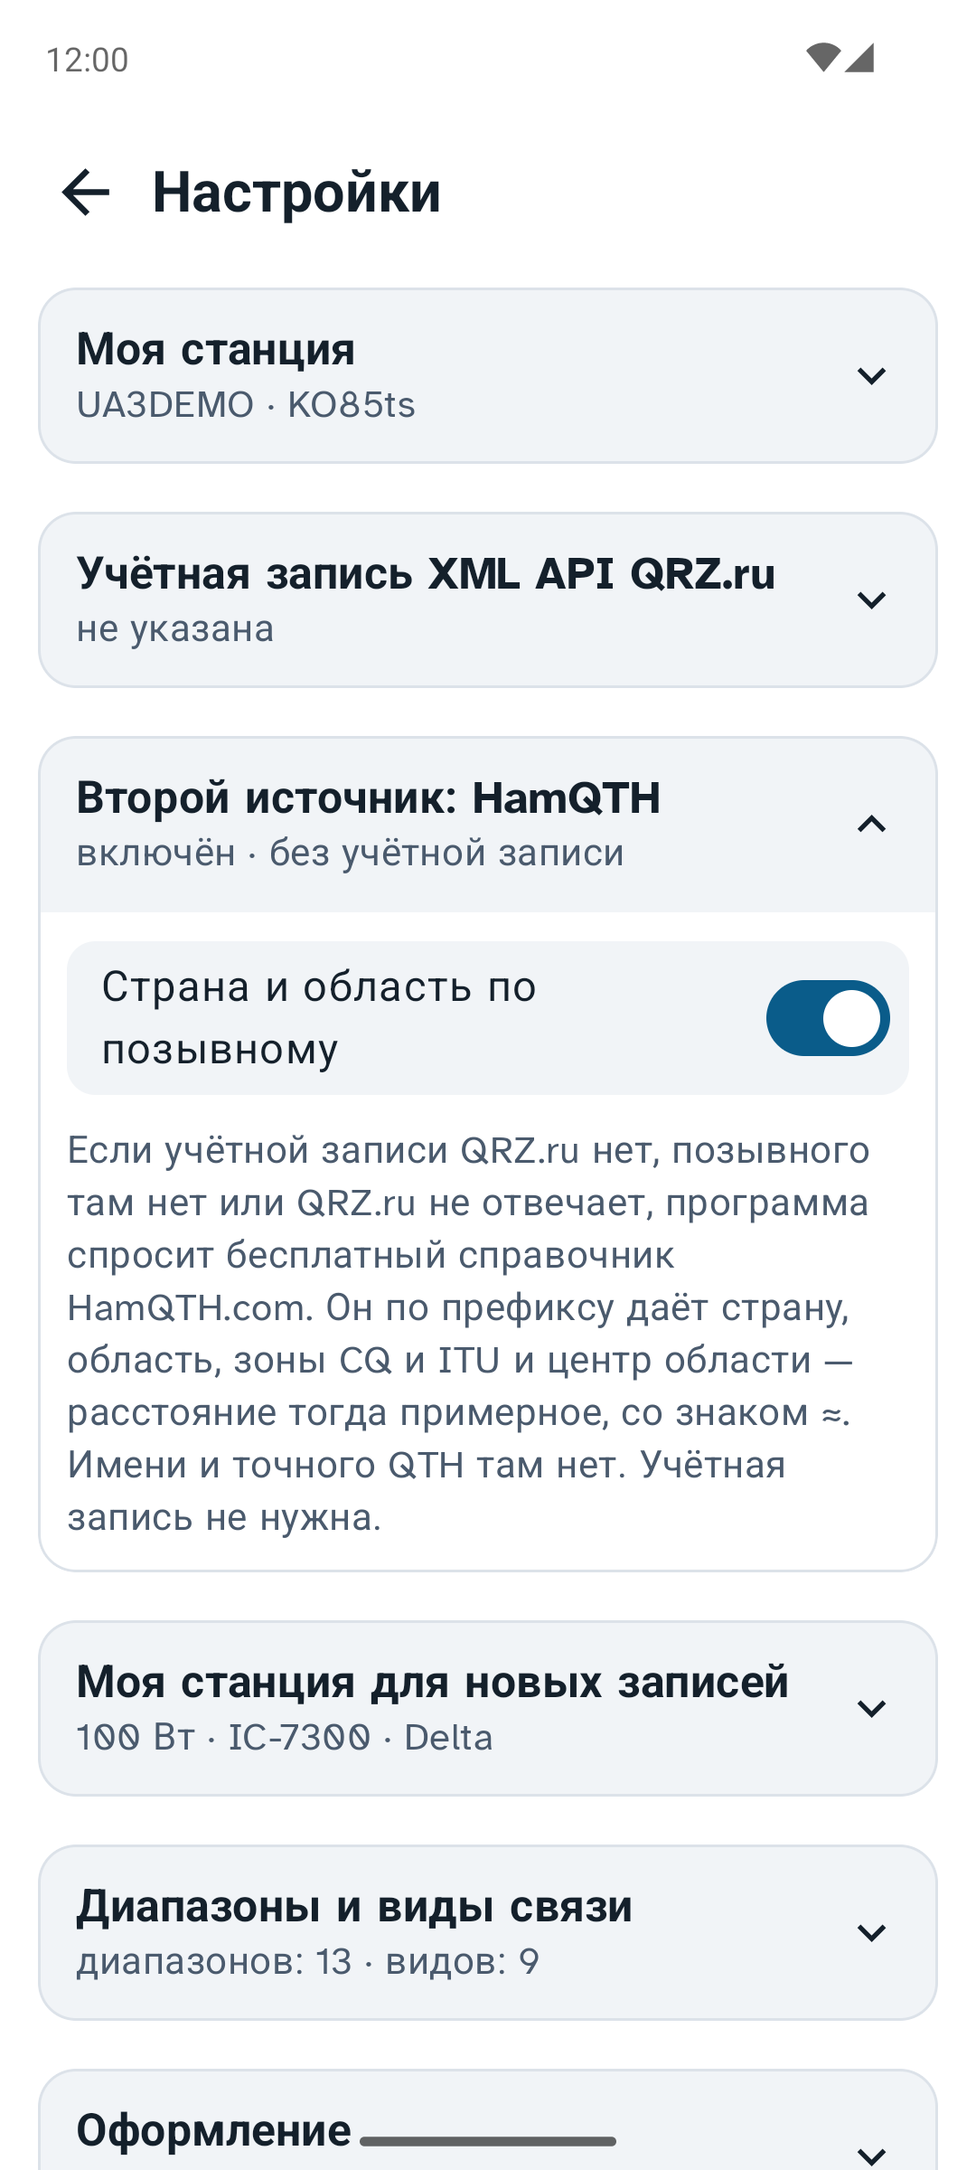
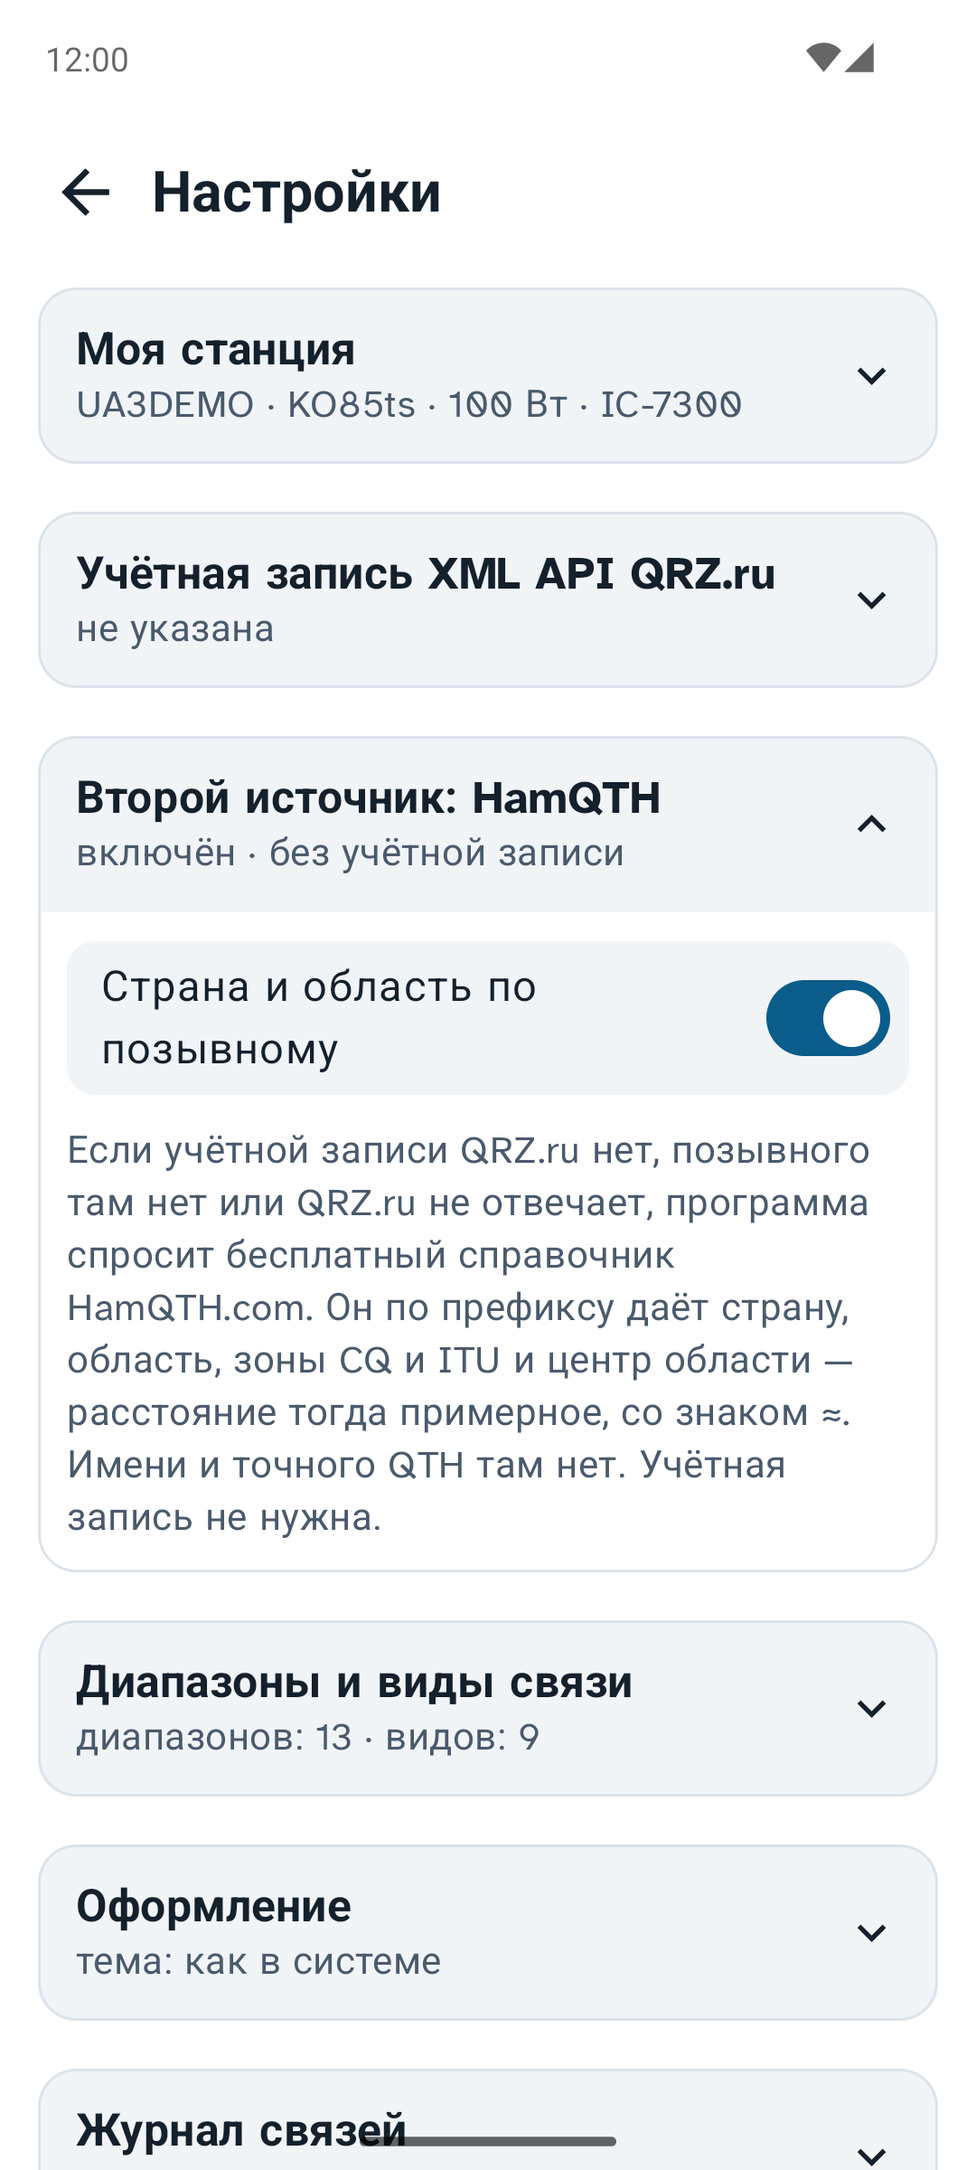
Android 0.11.0: XML API how-to, one "Моя станция" block, button above keyboard
- QRZ.ru block: "Как получить доступ?" steps from qrz.ru/help/api/xml,
  button to the request form, link to the help page; open while no login
- "Моя станция для новых записей" fields moved into "Моя станция"
- Log: imePadding keeps "Добавить QSO" above the keyboard while searching

diff --git a/app/src/main/java/ru/r3xed/qsolog/ui/SettingsScreen.kt b/app/src/main/java/ru/r3xed/qsolog/ui/SettingsScreen.kt
@@ -1,6 +1,7 @@
 package ru.r3xed.qsolog.ui
 
 import androidx.activity.compose.BackHandler
+import androidx.compose.material.icons.automirrored.filled.OpenInNew
 import ru.r3xed.qsolog.ThemeMode
 import androidx.compose.ui.text.style.TextAlign
 import androidx.compose.foundation.selection.selectable
@@ -105,7 +106,7 @@ fun SettingsScreen(
             verticalArrangement = Arrangement.spacedBy(12.dp),
         ) {
             // Each block opens on its own; the header sums up what is set. A first start opens what must be filled.
-            SettingsBlock("Моя станция", listOf(s.myCall, s.myLocator).filter { it.isNotBlank() }.joinToString(" · ").ifBlank { "не заполнено" }, open = s.myCall.isBlank() || s.myLocator.isBlank()) {
+            SettingsBlock("Моя станция", listOfNotNull(s.myCall.ifBlank { null }, s.myLocator.ifBlank { null }, s.power.ifBlank { null }?.let { "$it Вт" }, s.station["MY_RIG"]?.ifBlank { null }).joinToString(" · ").ifBlank { "не заполнено" }, open = s.myCall.isBlank() || s.myLocator.isBlank()) {
                 SettingField("Мой позывной", s.myCall, { vm.updateSettings(s.copy(myCall = it.uppercase().trim())) }, mono = true, caps = true)
                 val locOk = s.myLocator.isBlank() || Geo.isLocator(s.myLocator)
                 SettingField(
@@ -115,6 +116,13 @@ fun SettingsScreen(
                 SettingField("Город / адрес QTH", s.myQth, { vm.updateSettings(s.copy(myQth = it)) })
                 ActionButton("Определить локатор", Icons.Filled.MyLocation, vm::findMyLocator)
                 Note("Расстояние и азимут считаются от QTH-локатора. Если вы сменили город, нажмите «Определить локатор»: кнопка возьмёт координаты из вашей карточки на QRZ.ru, а если их там нет, найдёт по городу.")
+                // Station defaults: copied into each new contact, where they stay as that record's own values.
+                Text("Для новых записей", style = MaterialTheme.typography.titleSmall, modifier = Modifier.padding(top = 8.dp))
+                SettingField("Мощность, Вт", s.power, { vm.updateSettings(s.copy(power = it)) }, mono = true)
+                AdifLabels.MINE.forEach { (key, label) ->
+                    SettingField(label, s.station[key].orEmpty(), { vm.updateSettings(s.copy(station = s.station + (key to it))) })
+                }
+                Note("Эти значения попадают в каждую новую связь и хранятся в ней. Если позже их поменять, старые записи не изменятся.")
             }
 
             SettingsBlock(
@@ -157,6 +165,7 @@ fun SettingsScreen(
                         Text(status, color = color, style = MaterialTheme.typography.titleSmall)
                     }
             }
+            QrzApiHelp(expandedByDefault = s.qrzLogin.isBlank())
             ActionButton("Проверить подключение", null, vm::testQrz)
             }
 
@@ -177,18 +186,6 @@ fun SettingsScreen(
                         "расстояние тогда примерное, со знаком ≈. Имени и точного QTH там нет. Учётная запись не нужна.",
                 )
             }
-
-            SettingsBlock(
-                "Моя станция для новых записей",
-                listOfNotNull(s.power.takeIf { it.isNotBlank() }?.let { "$it Вт" }, s.station["MY_RIG"], s.station["MY_ANTENNA"]).joinToString(" · ").ifBlank { "не заполнено" },
-            ) {
-                SettingField("Мощность, Вт", s.power, { vm.updateSettings(s.copy(power = it)) }, mono = true)
-                AdifLabels.MINE.forEach { (key, label) ->
-                    SettingField(label, s.station[key].orEmpty(), { vm.updateSettings(s.copy(station = s.station + (key to it))) })
-            }
-            Note("Эти значения попадают в каждую новую связь и хранятся в ней. Если позже их поменять, старые записи не изменятся.")
-            }
-
 
             SettingsBlock("Диапазоны и виды связи", "диапазонов: ${vm.enabledBands.size} · видов: ${vm.enabledModes.size}") {
                 Section("Диапазоны в карточке связи")
@@ -330,6 +327,65 @@ private fun UpdateCheck(vm: AppViewModel) {
             },
             dismissButton = { TextButton(onClick = vm::dismissUpdate) { Text("Позже") } },
         )
+    }
+}
+
+private const val QRZ_API_REQUEST_URL = "https://www.qrz.ru/personal/settings/apiuser"
+private const val QRZ_API_HELP_URL = "https://www.qrz.ru/help/api/xml"
+
+/**
+ * How to get XML API access on QRZ.ru, from their help page. Open right away while no login is entered;
+ * afterwards folded into one "Как получить доступ?" line.
+ */
+@Composable
+private fun QrzApiHelp(expandedByDefault: Boolean) {
+    val x = LocalExtra.current
+    val uri = LocalUriHandler.current
+    var open by rememberSaveable(expandedByDefault) { mutableStateOf(expandedByDefault) }
+    Column(
+        Modifier.fillMaxWidth().clip(RoundedCornerShape(12.dp)).background(x.field),
+    ) {
+        Row(
+            Modifier.fillMaxWidth().clickable(onClickLabel = if (open) "Свернуть" else "Развернуть") { open = !open }
+                .padding(horizontal = 14.dp, vertical = 12.dp),
+            verticalAlignment = Alignment.CenterVertically,
+        ) {
+            Text("Как получить доступ?", style = MaterialTheme.typography.titleSmall, modifier = Modifier.weight(1f))
+            Icon(if (open) Icons.Filled.ExpandLess else Icons.Filled.ExpandMore, null)
+        }
+        if (open) Column(Modifier.padding(start = 14.dp, end = 14.dp, bottom = 14.dp), verticalArrangement = Arrangement.spacedBy(6.dp)) {
+            listOf(
+                "Войдите на qrz.ru. Ваш позывной должен быть в Callbook QRZ.ru.",
+                "Откройте «Личные данные» → внизу раздел «XML API» → «Создать аккаунт».",
+                "Укажите свой позывной и программу: QSO-LOG.",
+                "Логин и пароль для XML API придут через некоторое время. Это не пароль от сайта.",
+            ).forEachIndexed { i, step ->
+                Row {
+                    Text("${i + 1}.", style = MaterialTheme.typography.bodyMedium, fontWeight = FontWeight.Bold, modifier = Modifier.width(22.dp))
+                    Text(step, style = MaterialTheme.typography.bodyMedium)
+                }
+            }
+            Text(
+                "Доступ дают только на постоянные позывные радиолюбителей и наблюдателей, только для личного аппаратного журнала.",
+                style = MaterialTheme.typography.bodyMedium, color = x.muted,
+            )
+            OutlinedButton(
+                onClick = { uri.openUri(QRZ_API_REQUEST_URL) },
+                modifier = Modifier.fillMaxWidth().padding(top = 4.dp).heightIn(min = 50.dp),
+                shape = RoundedCornerShape(12.dp),
+            ) {
+                Icon(Icons.AutoMirrored.Filled.OpenInNew, null)
+                Spacer(Modifier.width(8.dp))
+                Text("Запросить доступ на QRZ.ru", fontWeight = FontWeight.Bold, maxLines = 1)
+            }
+            Text(
+                "Подробнее: qrz.ru/help/api/xml",
+                style = MaterialTheme.typography.bodyMedium,
+                color = MaterialTheme.colorScheme.primary,
+                textDecoration = TextDecoration.Underline,
+                modifier = Modifier.clickable(onClickLabel = "Открыть справку QRZ.ru") { uri.openUri(QRZ_API_HELP_URL) }.padding(vertical = 4.dp),
+            )
+        }
     }
 }
 

diff --git a/app/src/main/java/ru/r3xed/qsolog/ui/LogScreen.kt b/app/src/main/java/ru/r3xed/qsolog/ui/LogScreen.kt
@@ -19,6 +19,7 @@ import androidx.compose.foundation.layout.fillMaxHeight
 import androidx.compose.foundation.layout.fillMaxSize
 import androidx.compose.foundation.layout.fillMaxWidth
 import androidx.compose.foundation.layout.height
+import androidx.compose.foundation.layout.imePadding
 import androidx.compose.foundation.layout.navigationBarsPadding
 import androidx.compose.foundation.layout.padding
 import androidx.compose.foundation.layout.size
@@ -96,7 +97,8 @@ fun LogScreen(
     val x = LocalExtra.current
     BackHandler(enabled = vm.selecting) { vm.clearSelection() }
     Box(Modifier.fillMaxSize().background(MaterialTheme.colorScheme.background)) {
-        Column(Modifier.fillMaxSize().statusBarsPadding().navigationBarsPadding()) {
+        // imePadding: with the keyboard open (search) the list shrinks and "Добавить QSO" stays above the keyboard.
+        Column(Modifier.fillMaxSize().statusBarsPadding().navigationBarsPadding().imePadding()) {
             if (vm.selecting) SelectionBar(vm, onExportSelected) else Row(
                 Modifier.fillMaxWidth().padding(start = 20.dp, end = 12.dp, top = 8.dp, bottom = 4.dp),
                 verticalAlignment = Alignment.CenterVertically,

diff --git a/README.md b/README.md
@@ -11,7 +11,7 @@
 
 | Платформа | Версия | Скачать |
 |---|---|---|
-| **Android** 8.0 и новее | 0.10.0 | [QSO-LOG-0.10.0.apk](../../releases/tag/v0.10.0) |
+| **Android** 8.0 и новее | 0.11.0 | [QSO-LOG-0.11.0.apk](../../releases/tag/v0.11.0) |
 | **macOS** на Apple Silicon (M1 и новее) | 1.2.0 | [QSO-LOG-1.2.0-macos-arm64.dmg](../../releases/tag/desktop-v1.2.0) |
 | **Windows** 10/11, 64 бит | 1.2.0 | [QSO-LOG-1.2.0-windows-x64.zip](../../releases/tag/desktop-v1.2.0) |
 | **Linux**: Ubuntu 22.04 и новее, Debian 12, Mint (64 бит, x86) | 1.2.0 | [QSO-LOG-1.2.0-linux-amd64.deb](../../releases/tag/desktop-v1.2.0) |
@@ -34,7 +34,7 @@
 - Сортировка компактными кнопками над списком: по дате, расстоянию, позывному, диапазону. Повторное нажатие меняет направление.
 - Правка связи нажатием на запись. Удалить связь можно только кнопкой «Удалить» в её карточке
   (с подтверждением и кнопкой «Отменить» после удаления) — случайный свайп в списке ничего не удалит.
-- Кнопка «Добавить QSO» внизу экрана, под большим пальцем.
+- Кнопка «Добавить QSO» внизу экрана, под большим пальцем. При поиске она поднимается над клавиатурой.
 - Выбор нескольких записей долгим нажатием и выгрузка только их в ADIF.
 - Если связь сохранена без интернета, у записи появляется кнопка ⟳: она заново запрашивает данные абонента на QRZ.ru
   и дописывает имя, город, локатор и расстояние.
@@ -74,9 +74,11 @@
 - Разделы сворачиваются, в заголовке каждого — итог: позывной и локатор, состояние QRZ.ru, мощность и трансивер,
   число включённых диапазонов, число записей. При первом запуске открыты те, что нужно заполнить.
 - Свой позывной и QTH-локатор. Кнопка «Определить локатор» находит его по карточке QRZ.ru или по городу.
-- «Моя станция» (мощность, трансивер, антенна, оператор…) подставляется в каждую новую связь.
+- «Моя станция»: позывной, локатор, город и ниже — «Для новых записей» (мощность, трансивер, антенна, оператор…),
+  они подставляются в каждую новую связь.
 - Переключатели: какие диапазоны и виды связи показывать кнопками.
-- Учётная запись XML API QRZ.ru и второй источник HamQTH (без учётной записи).
+- Учётная запись XML API QRZ.ru с короткой инструкцией, как получить доступ, и кнопкой «Запросить доступ на QRZ.ru».
+  Второй источник — HamQTH, без учётной записи.
 - «Оформление»: тема как в системе, светлая или тёмная.
 - Внизу — версия программы, нажатие открывает страницу проекта на GitHub. Кнопка «Проверить обновления» узнаёт
   на GitHub, есть ли версия новее; если есть — показывает, что в ней изменилось, и предлагает скачать APK.
@@ -102,6 +104,8 @@
 <img src="docs/screenshots/14-update.png" width="200" alt="Доступна новая версия">
 <img src="docs/screenshots/15-hamqth.png" width="200" alt="Второй источник HamQTH в настройках">
 <img src="docs/screenshots/16-hamqth-card.png" width="200" alt="Страна и область из HamQTH в карточке">
+<img src="docs/screenshots/17-search-keyboard.png" width="200" alt="Поиск: кнопка над клавиатурой">
+<img src="docs/screenshots/18-qrz-help.png" width="200" alt="Как получить доступ к XML API QRZ.ru">
 </p>
 </details>
 
@@ -145,7 +149,7 @@
 
 ## Установка на Android
 
-1. Скачайте `QSO-LOG-*.apk` со страницы [релиза](../../releases/tag/v0.10.0).
+1. Скачайте `QSO-LOG-*.apk` со страницы [релиза](../../releases/tag/v0.11.0).
 2. Откройте файл на телефоне. Если Android спросит, разрешите установку из этого источника.
 3. Новую версию ставьте поверх старой: лог и настройки сохранятся.
    До версии 0.6.2 программа называлась «QSO Log»; после обновления она просто сменит название, данные останутся.
@@ -195,7 +199,15 @@
 
 ## Доступ к QRZ.ru
 
-Для поиска абонентов нужен доступ к XML API QRZ.ru. Его выдают в личном кабинете QRZ.ru → «Личные данные» → XML API.
+Для поиска абонентов нужен доступ к XML API QRZ.ru. Как его получить (так же написано в настройках программы):
+1. Войдите на qrz.ru. Ваш позывной должен быть в Callbook QRZ.ru.
+2. Откройте «Личные данные» → внизу раздел «XML API» → «Создать аккаунт»
+   ([прямая ссылка](https://www.qrz.ru/personal/settings/apiuser)).
+3. Укажите свой позывной и программу: QSO-LOG.
+4. Логин и пароль для XML API придут через некоторое время. Это не пароль от сайта.
+
+Доступ дают только на постоянные позывные радиолюбителей и наблюдателей, только для личного аппаратного журнала.
+Подробнее — в [справке QRZ.ru](https://www.qrz.ru/help/api/xml).
 Без него приложение работает, но данные абонента придётся вписывать вручную.
 
 ## Данные и приватность
